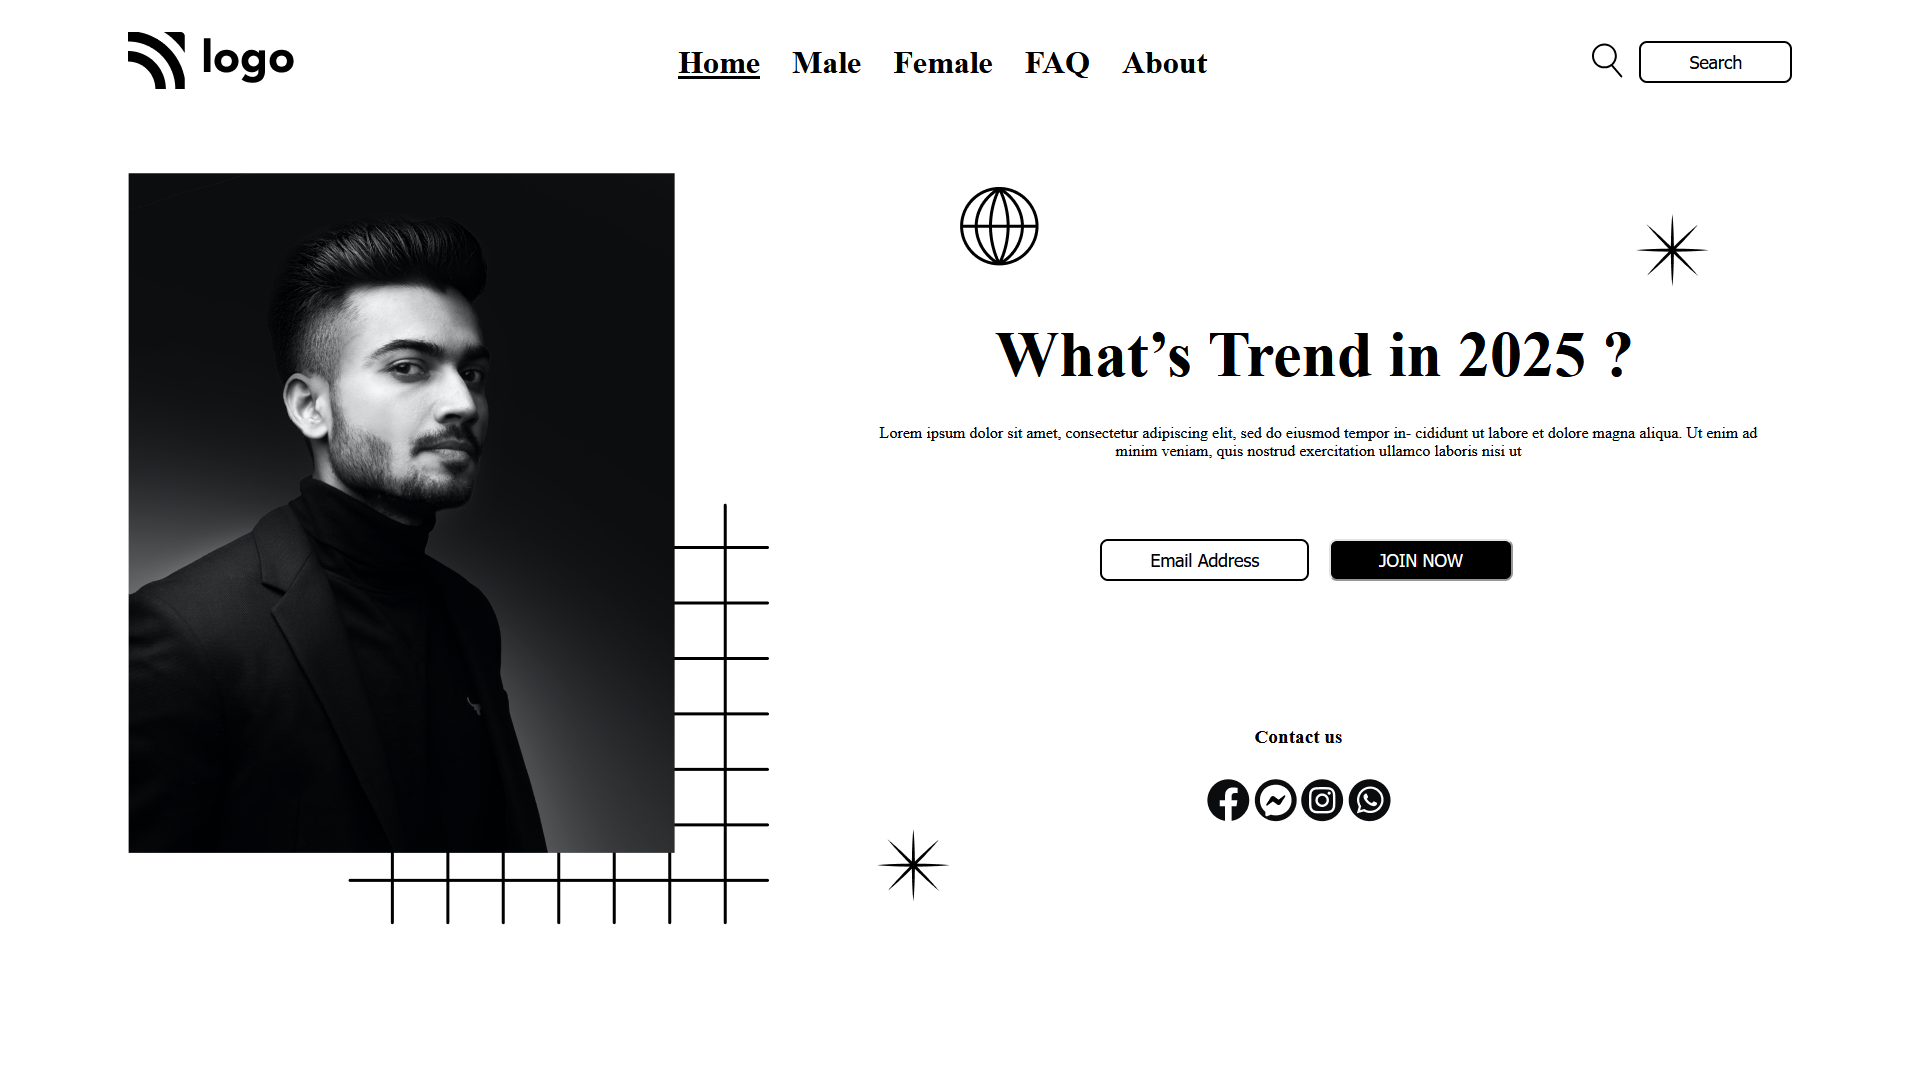
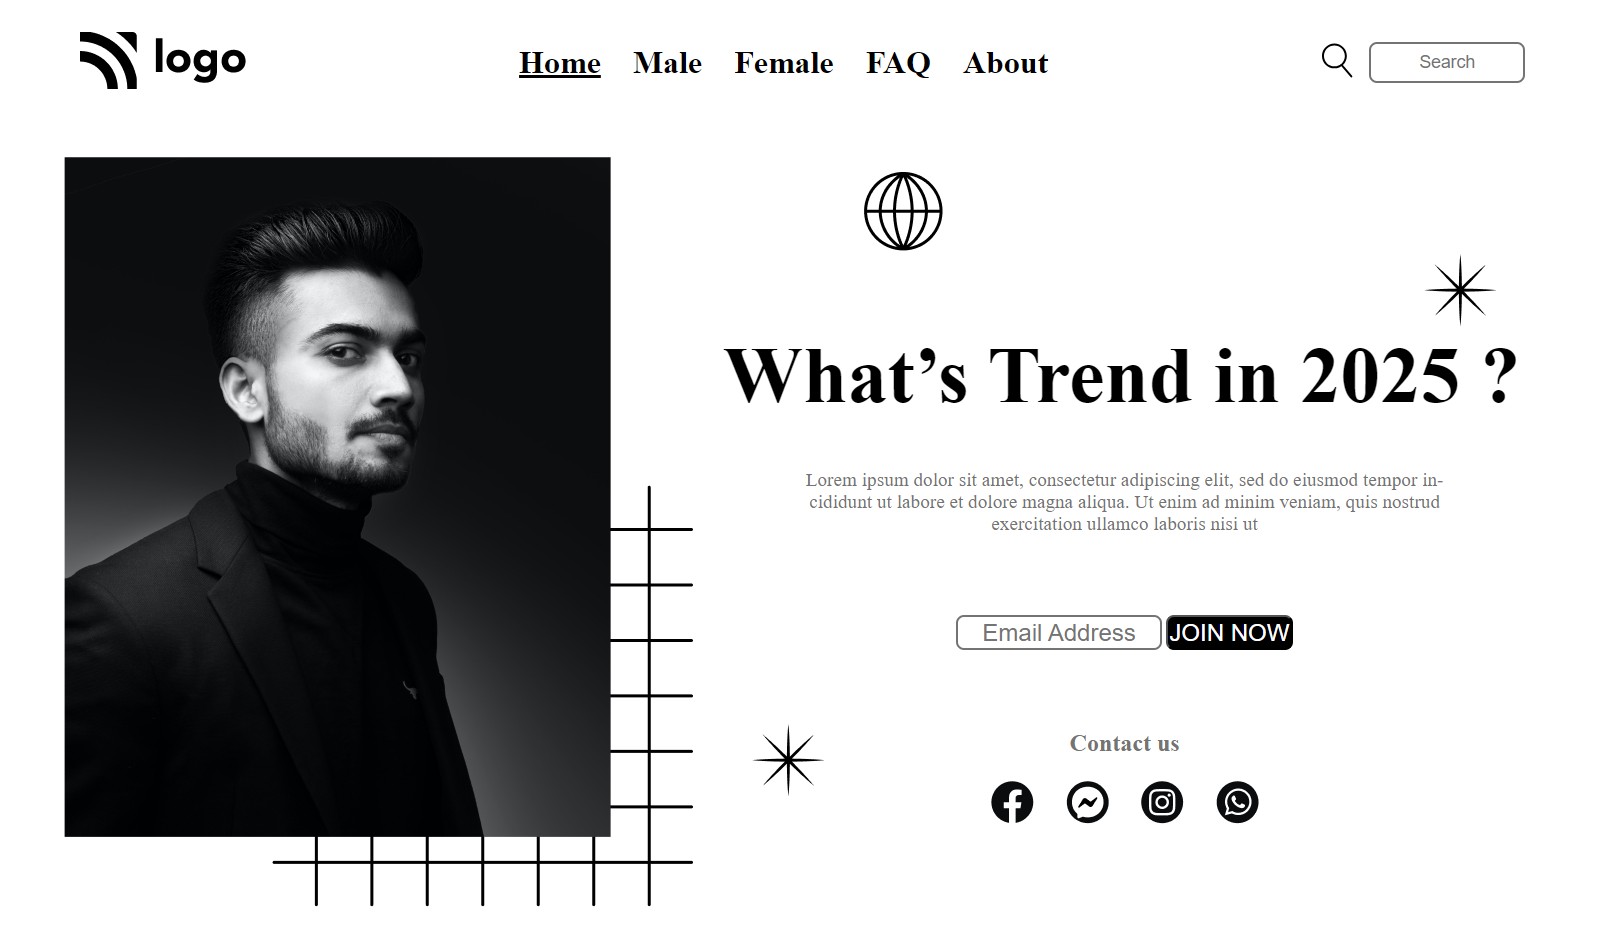
modify css code for better view

diff --git a/style.css b/style.css
@@ -1,7 +1,6 @@
 *{
     margin: 0;
     padding: 0;
-    box-sizing: 0;
 }
     
 
@@ -9,8 +8,9 @@
     display: flex;
     justify-content: space-between;
     align-items: center;
-    margin: 2rem 8rem;
+    margin: 2rem 5rem;
     font-weight: 900;
+    gap: 2rem;
 }
     
 
@@ -19,62 +19,51 @@
     justify-content: space-between;
     align-items: center;
     font-size: 2rem;
+    font-weight: 550;
+    gap: 2rem;
+    list-style:none;
 }
 
-    
-.list-item{
-    list-style:none;
-    margin: 0 1rem;
- }
-    
 
 .list-item:nth-child(1){
-    font: size 1.3rem;
     font-weight: 900;
     text-decoration: underline;
 }
 
 
 .button-group{
-     display: flex;
-     align-items: center;
+    display: flex;
+    align-items: center;
+    gap: 1rem;
 }
 
         
-button{
+.nav-button{
+    display: flex;
+    align-items: center;
     padding: 0.5rem 3rem;
     background-color: transparent;
+    color: #757474;
     font-size:1.1rem;
-    margin-left: 1rem;
     border-radius: 0.5rem;
+    border: 2.8px solid #757474;
 }
        
-.nav-button{
-    border: 2.5px solid #000000;
-}
-
 
 
 .hero-container{
-    margin: 5rem 8rem 2rem 8rem;
+    margin: 4rem;
     position: relative; 
     display: flex;
-    gap: 5rem;
+    gap: 7rem;
 }
 
-
-
-.hero {
-    width: 350px;
-}
 
 
 .square {
     position: absolute;
-    bottom: 0;
-    left: 80px;
-    top: 330px;
-    margin-left: 140px;
+    left: 13rem;
+    top: 20.5rem;
     z-index: -1;
 }
            
@@ -83,54 +72,37 @@ button{
 .hero-container-right{
     display: flex;
     flex-direction: column;
-    align-items: center;
-    margin-top: 50px;
-    margin-left: 50px;
     justify-content: center;
-}
-    
-
-
-.contact{
-    display: flex;
-    flex-direction: column;
     align-items: center;
-    justify-content: center;
-    margin-top: 5rem;
 }
-          
-
-
-.contact-heading{
-    font-weight: 600;
-    font-size: larger;
-    color: #000000;
-    margin-top: 9rem;
-    margin-bottom: 2rem;
-    text-align: center;
-}
-                
+                    
                 
 
 .hero-heading{
-    font-size: 4rem;
-    font-weight: bold;
-    margin-top: 100px;
-    margin: 4rem 2rem 2rem 4rem;
+    font-size: 5rem;
+    font-weight: 900;
+    margin-top: 10rem;
+    width: 85vh;
 }
                 
                 
 .hero-description{
-    width: 90%;
-    margin-left: 40px;
     text-align: center;
+    color: #757474;
+    margin-top: 3rem;
     margin-bottom: 5rem;
-    color: #000000;
+    font-size: 1.2rem;
+    width: 68vh;
 }
                 
  
 .button-email{
-    border: 2.5px solid #000000;
+    padding: 0.1rem 1.5rem;
+    background-color: transparent;
+    font-size:1.5rem;
+    color: #757474;
+    border-radius: 0.5rem;
+    border: 2.8px solid #757474;
 }
 
 
@@ -138,31 +110,53 @@ button{
 .button-join{
     background-color: #000000;
     color: #ffffff;
+    font-size:1.5rem;
+    border-radius: 0.5rem;
+    padding: .1rem .1rem;
 }
-                    
-                    
-.star{
-    top: 40px;
-    right: 5%;
+ 
+
+
+.contact{
+    display: flex;
+    flex-direction: column;
+    align-items: center;
+    justify-content: center;
 }
-                    
-                    
-.star2{
-    bottom: 4%;
-    left: 45%;
-    height: 1px;
-    
+          
+
+.contact-heading{
+    font-weight: 700;
+    font-size: 1.5rem;
+    color: #757474;
+    margin-top: 5rem;
+    margin-bottom: 1.5rem;
+    text-align: center;
 }
-                    
+
 
 .star,.star2,.globe {
     position: absolute;
 }
-
-
-
+                    
+.star{
+    top: 6rem;
+    left: 85rem;
+}
+                    
+                    
+.star2{
+    bottom: 40px;
+    left: 43rem;
+    
+}
+                    
 .globe{
-    top: 0.85em; left: 50%;
+    top: 0.85em;
+    left: 50rem;
 }
 
-
+.icons{
+    display: flex;
+    gap: 2rem;
+}
